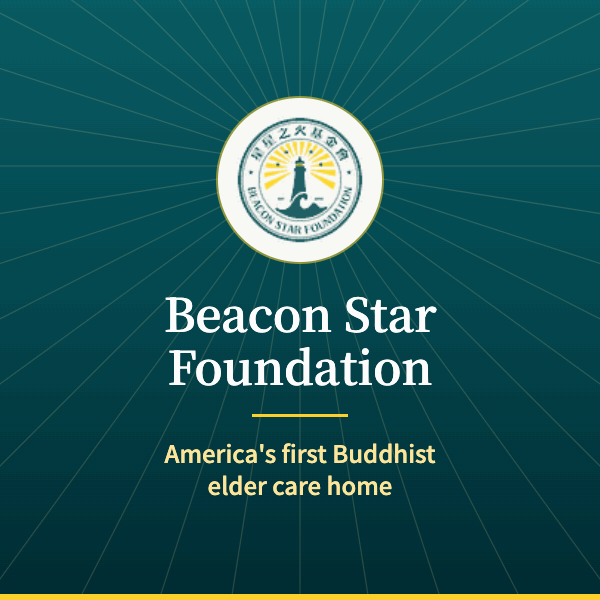
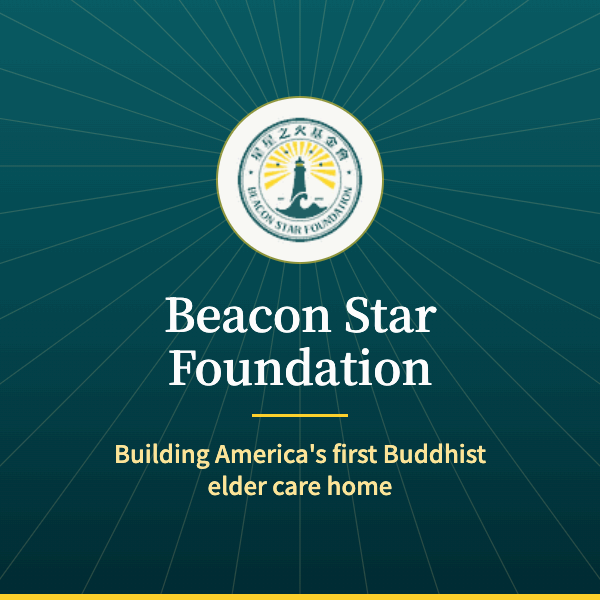
Go back to one og:image per page
iMessage does not choose between multiple og:image tags — it lays them
out side by side in one card, so the wide and square cards each arrived
cropped down the middle. One image per page, the wide one; each language
still points at its own card, which was the point of the exercise.

The English square card's line now matches the wide one.

Changed region(s): [[0.18, 0.72, 0.81, 0.78]]

diff --git a/origin-en.html b/origin-en.html
@@ -19,11 +19,6 @@
 <meta property="og:image:width" content="1200">
 <meta property="og:image:height" content="630">
 <meta property="og:image:alt" content="星星之火基金會 Beacon Star Foundation">
-<meta property="og:image" content="https://beaconstarfoundation.org/og-image-en-square.png">
-<meta property="og:image:type" content="image/png">
-<meta property="og:image:width" content="600">
-<meta property="og:image:height" content="600">
-<meta property="og:image:alt" content="星星之火基金會 Beacon Star Foundation">
 <meta name="twitter:card" content="summary_large_image">
 <style>html,body{background:#FBFAF7;color:#16262B;margin:0}html{color-scheme:light}footer [data-flinks]{display:grid;grid-template-columns:repeat(3,minmax(0,1fr));gap:34px 40px}@media (max-width:699px){footer [data-flinks]{display:grid;grid-template-columns:repeat(2,minmax(0,1fr));gap:26px 18px}}html.om-hold body{opacity:0}html.om-in body{opacity:1;transition:opacity .26s cubic-bezier(.22,.61,.24,1)}@media (prefers-reduced-motion:reduce){html.om-in body{transition:none}}body{overflow-wrap:break-word}a[href^="mailto:"]{overflow-wrap:anywhere}[data-bio-aside]{align-self:start}@media(min-width:760px){[data-bio-aside]{position:sticky;top:calc(var(--hdr, 132px) + 28px)}}@media(min-width:760px){[data-bio-grid]{grid-template-columns:5fr 7fr!important}}</style>
 <script>(function(){var h=document.documentElement;h.className+=" om-hold";var done=0,mo,cap;function go(){if(done)return;done=1;clearTimeout(cap);if(mo)mo.disconnect();h.className=h.className.replace(" om-hold","")+" om-in";}function ready(){var r=document.getElementById("dc-root");return r&&r.getBoundingClientRect().height>240;}function check(){if(ready())requestAnimationFrame(go);}cap=setTimeout(go,1500);document.addEventListener("DOMContentLoaded",function(){try{mo=new MutationObserver(check);mo.observe(document.body,{childList:true,subtree:true});}catch(e){}check();});})();</script>

diff --git a/origin-simp.html b/origin-simp.html
@@ -19,11 +19,6 @@
 <meta property="og:image:width" content="1200">
 <meta property="og:image:height" content="630">
 <meta property="og:image:alt" content="星星之火基金會 Beacon Star Foundation">
-<meta property="og:image" content="https://beaconstarfoundation.org/og-image-square.png">
-<meta property="og:image:type" content="image/png">
-<meta property="og:image:width" content="600">
-<meta property="og:image:height" content="600">
-<meta property="og:image:alt" content="星星之火基金會 Beacon Star Foundation">
 <meta name="twitter:card" content="summary_large_image">
 <style>html,body{background:#FBFAF7;color:#16262B;margin:0}html{color-scheme:light}footer [data-flinks]{display:grid;grid-template-columns:repeat(3,minmax(0,1fr));gap:34px 40px}@media (max-width:699px){footer [data-flinks]{display:grid;grid-template-columns:repeat(2,minmax(0,1fr));gap:26px 18px}}html.om-hold body{opacity:0}html.om-in body{opacity:1;transition:opacity .26s cubic-bezier(.22,.61,.24,1)}@media (prefers-reduced-motion:reduce){html.om-in body{transition:none}}body{overflow-wrap:break-word}a[href^="mailto:"]{overflow-wrap:anywhere}[data-bio-aside]{align-self:start}@media(min-width:760px){[data-bio-aside]{position:sticky;top:calc(var(--hdr, 132px) + 28px)}}@media(min-width:760px){[data-bio-grid]{grid-template-columns:5fr 7fr!important}}</style>
 <script>(function(){var h=document.documentElement;h.className+=" om-hold";var done=0,mo,cap;function go(){if(done)return;done=1;clearTimeout(cap);if(mo)mo.disconnect();h.className=h.className.replace(" om-hold","")+" om-in";}function ready(){var r=document.getElementById("dc-root");return r&&r.getBoundingClientRect().height>240;}function check(){if(ready())requestAnimationFrame(go);}cap=setTimeout(go,1500);document.addEventListener("DOMContentLoaded",function(){try{mo=new MutationObserver(check);mo.observe(document.body,{childList:true,subtree:true});}catch(e){}check();});})();</script>

diff --git a/origin-trad.html b/origin-trad.html
@@ -19,11 +19,6 @@
 <meta property="og:image:width" content="1200">
 <meta property="og:image:height" content="630">
 <meta property="og:image:alt" content="星星之火基金會 Beacon Star Foundation">
-<meta property="og:image" content="https://beaconstarfoundation.org/og-image-square.png">
-<meta property="og:image:type" content="image/png">
-<meta property="og:image:width" content="600">
-<meta property="og:image:height" content="600">
-<meta property="og:image:alt" content="星星之火基金會 Beacon Star Foundation">
 <meta name="twitter:card" content="summary_large_image">
 <style>html,body{background:#FBFAF7;color:#16262B;margin:0}html{color-scheme:light}footer [data-flinks]{display:grid;grid-template-columns:repeat(3,minmax(0,1fr));gap:34px 40px}@media (max-width:699px){footer [data-flinks]{display:grid;grid-template-columns:repeat(2,minmax(0,1fr));gap:26px 18px}}html.om-hold body{opacity:0}html.om-in body{opacity:1;transition:opacity .26s cubic-bezier(.22,.61,.24,1)}@media (prefers-reduced-motion:reduce){html.om-in body{transition:none}}body{overflow-wrap:break-word}a[href^="mailto:"]{overflow-wrap:anywhere}[data-bio-aside]{align-self:start}@media(min-width:760px){[data-bio-aside]{position:sticky;top:calc(var(--hdr, 132px) + 28px)}}@media(min-width:760px){[data-bio-grid]{grid-template-columns:5fr 7fr!important}}</style>
 <script>(function(){var h=document.documentElement;h.className+=" om-hold";var done=0,mo,cap;function go(){if(done)return;done=1;clearTimeout(cap);if(mo)mo.disconnect();h.className=h.className.replace(" om-hold","")+" om-in";}function ready(){var r=document.getElementById("dc-root");return r&&r.getBoundingClientRect().height>240;}function check(){if(ready())requestAnimationFrame(go);}cap=setTimeout(go,1500);document.addEventListener("DOMContentLoaded",function(){try{mo=new MutationObserver(check);mo.observe(document.body,{childList:true,subtree:true});}catch(e){}check();});})();</script>

diff --git a/videos-simp.html b/videos-simp.html
@@ -19,11 +19,6 @@
 <meta property="og:image:width" content="1200">
 <meta property="og:image:height" content="630">
 <meta property="og:image:alt" content="星星之火基金會 Beacon Star Foundation">
-<meta property="og:image" content="https://beaconstarfoundation.org/og-image-square.png">
-<meta property="og:image:type" content="image/png">
-<meta property="og:image:width" content="600">
-<meta property="og:image:height" content="600">
-<meta property="og:image:alt" content="星星之火基金會 Beacon Star Foundation">
 <meta name="twitter:card" content="summary_large_image">
 <style>html,body{background:#FBFAF7;color:#16262B;margin:0}html{color-scheme:light}footer [data-flinks]{display:grid;grid-template-columns:repeat(3,minmax(0,1fr));gap:34px 40px}@media (max-width:699px){footer [data-flinks]{display:grid;grid-template-columns:repeat(2,minmax(0,1fr));gap:26px 18px}}html.om-hold body{opacity:0}html.om-in body{opacity:1;transition:opacity .26s cubic-bezier(.22,.61,.24,1)}@media (prefers-reduced-motion:reduce){html.om-in body{transition:none}}body{overflow-wrap:break-word}a[href^="mailto:"]{overflow-wrap:anywhere}.cta-pair{display:block}@media(max-width:700px){.cta-clause{display:block}}[data-vgrid]{grid-template-columns:repeat(2,minmax(0,1fr))}@media(max-width:620px){[data-vgrid]{grid-template-columns:1fr}}</style>
 <script>(function(){var h=document.documentElement;h.className+=" om-hold";var done=0,mo,cap;function go(){if(done)return;done=1;clearTimeout(cap);if(mo)mo.disconnect();h.className=h.className.replace(" om-hold","")+" om-in";}function ready(){var r=document.getElementById("dc-root");return r&&r.getBoundingClientRect().height>240;}function check(){if(ready())requestAnimationFrame(go);}cap=setTimeout(go,1500);document.addEventListener("DOMContentLoaded",function(){try{mo=new MutationObserver(check);mo.observe(document.body,{childList:true,subtree:true});}catch(e){}check();});})();</script>

diff --git a/videos-trad.html b/videos-trad.html
@@ -19,11 +19,6 @@
 <meta property="og:image:width" content="1200">
 <meta property="og:image:height" content="630">
 <meta property="og:image:alt" content="星星之火基金會 Beacon Star Foundation">
-<meta property="og:image" content="https://beaconstarfoundation.org/og-image-square.png">
-<meta property="og:image:type" content="image/png">
-<meta property="og:image:width" content="600">
-<meta property="og:image:height" content="600">
-<meta property="og:image:alt" content="星星之火基金會 Beacon Star Foundation">
 <meta name="twitter:card" content="summary_large_image">
 <style>html,body{background:#FBFAF7;color:#16262B;margin:0}html{color-scheme:light}footer [data-flinks]{display:grid;grid-template-columns:repeat(3,minmax(0,1fr));gap:34px 40px}@media (max-width:699px){footer [data-flinks]{display:grid;grid-template-columns:repeat(2,minmax(0,1fr));gap:26px 18px}}html.om-hold body{opacity:0}html.om-in body{opacity:1;transition:opacity .26s cubic-bezier(.22,.61,.24,1)}@media (prefers-reduced-motion:reduce){html.om-in body{transition:none}}body{overflow-wrap:break-word}a[href^="mailto:"]{overflow-wrap:anywhere}.cta-pair{display:block}@media(max-width:700px){.cta-clause{display:block}}[data-vgrid]{grid-template-columns:repeat(2,minmax(0,1fr))}@media(max-width:620px){[data-vgrid]{grid-template-columns:1fr}}</style>
 <script>(function(){var h=document.documentElement;h.className+=" om-hold";var done=0,mo,cap;function go(){if(done)return;done=1;clearTimeout(cap);if(mo)mo.disconnect();h.className=h.className.replace(" om-hold","")+" om-in";}function ready(){var r=document.getElementById("dc-root");return r&&r.getBoundingClientRect().height>240;}function check(){if(ready())requestAnimationFrame(go);}cap=setTimeout(go,1500);document.addEventListener("DOMContentLoaded",function(){try{mo=new MutationObserver(check);mo.observe(document.body,{childList:true,subtree:true});}catch(e){}check();});})();</script>

diff --git a/videos-en.html b/videos-en.html
@@ -19,11 +19,6 @@
 <meta property="og:image:width" content="1200">
 <meta property="og:image:height" content="630">
 <meta property="og:image:alt" content="星星之火基金會 Beacon Star Foundation">
-<meta property="og:image" content="https://beaconstarfoundation.org/og-image-en-square.png">
-<meta property="og:image:type" content="image/png">
-<meta property="og:image:width" content="600">
-<meta property="og:image:height" content="600">
-<meta property="og:image:alt" content="星星之火基金會 Beacon Star Foundation">
 <meta name="twitter:card" content="summary_large_image">
 <style>html,body{background:#FBFAF7;color:#16262B;margin:0}html{color-scheme:light}footer [data-flinks]{display:grid;grid-template-columns:repeat(3,minmax(0,1fr));gap:34px 40px}@media (max-width:699px){footer [data-flinks]{display:grid;grid-template-columns:repeat(2,minmax(0,1fr));gap:26px 18px}[data-vrow]{grid-template-columns:minmax(0,1fr)!important;gap:4px}}html.om-hold body{opacity:0}html.om-in body{opacity:1;transition:opacity .26s cubic-bezier(.22,.61,.24,1)}@media (prefers-reduced-motion:reduce){html.om-in body{transition:none}}body{overflow-wrap:break-word}a[href^="mailto:"]{overflow-wrap:anywhere}[data-vgrid]{grid-template-columns:repeat(2,minmax(0,1fr))}@media(max-width:620px){[data-vgrid]{grid-template-columns:1fr}}</style>
 <script>(function(){var h=document.documentElement;h.className+=" om-hold";var done=0,mo,cap;function go(){if(done)return;done=1;clearTimeout(cap);if(mo)mo.disconnect();h.className=h.className.replace(" om-hold","")+" om-in";}function ready(){var r=document.getElementById("dc-root");return r&&r.getBoundingClientRect().height>240;}function check(){if(ready())requestAnimationFrame(go);}cap=setTimeout(go,1500);document.addEventListener("DOMContentLoaded",function(){try{mo=new MutationObserver(check);mo.observe(document.body,{childList:true,subtree:true});}catch(e){}check();});})();</script>

diff --git a/home-en.html b/home-en.html
@@ -19,11 +19,6 @@
 <meta property="og:image:width" content="1200">
 <meta property="og:image:height" content="630">
 <meta property="og:image:alt" content="星星之火基金會 Beacon Star Foundation">
-<meta property="og:image" content="https://beaconstarfoundation.org/og-image-en-square.png">
-<meta property="og:image:type" content="image/png">
-<meta property="og:image:width" content="600">
-<meta property="og:image:height" content="600">
-<meta property="og:image:alt" content="星星之火基金會 Beacon Star Foundation">
 <meta name="twitter:card" content="summary_large_image">
 <style>html,body{background:#FBFAF7;color:#16262B;margin:0}html{color-scheme:light}footer [data-flinks]{display:grid;grid-template-columns:repeat(3,minmax(0,1fr));gap:34px 40px}@media (max-width:699px){footer [data-flinks]{display:grid;grid-template-columns:repeat(2,minmax(0,1fr));gap:26px 18px}}html.om-hold body{opacity:0}html.om-in body{opacity:1;transition:opacity .26s cubic-bezier(.22,.61,.24,1)}@media (prefers-reduced-motion:reduce){html.om-in body{transition:none}}body{overflow-wrap:break-word}a[href^="mailto:"]{overflow-wrap:anywhere}@media(max-width:699px){#top{padding-top:32px!important}[data-hero-seal]{width:128px!important;height:128px!important}}</style>
 <script>(function(){var h=document.documentElement;h.className+=" om-hold";var done=0,mo,cap;function go(){if(done)return;done=1;clearTimeout(cap);if(mo)mo.disconnect();h.className=h.className.replace(" om-hold","")+" om-in";}function ready(){var r=document.getElementById("dc-root");return r&&r.getBoundingClientRect().height>240;}function check(){if(ready())requestAnimationFrame(go);}cap=setTimeout(go,1500);document.addEventListener("DOMContentLoaded",function(){try{mo=new MutationObserver(check);mo.observe(document.body,{childList:true,subtree:true});}catch(e){}check();});})();</script>

diff --git a/home-simp.html b/home-simp.html
@@ -19,11 +19,6 @@
 <meta property="og:image:width" content="1200">
 <meta property="og:image:height" content="630">
 <meta property="og:image:alt" content="星星之火基金會 Beacon Star Foundation">
-<meta property="og:image" content="https://beaconstarfoundation.org/og-image-square.png">
-<meta property="og:image:type" content="image/png">
-<meta property="og:image:width" content="600">
-<meta property="og:image:height" content="600">
-<meta property="og:image:alt" content="星星之火基金會 Beacon Star Foundation">
 <meta name="twitter:card" content="summary_large_image">
 <style>html,body{background:#FBFAF7;color:#16262B;margin:0}html{color-scheme:light}footer [data-flinks]{display:grid;grid-template-columns:repeat(3,minmax(0,1fr));gap:34px 40px}@media (max-width:699px){footer [data-flinks]{display:grid;grid-template-columns:repeat(2,minmax(0,1fr));gap:26px 18px}}html.om-hold body{opacity:0}html.om-in body{opacity:1;transition:opacity .26s cubic-bezier(.22,.61,.24,1)}@media (prefers-reduced-motion:reduce){html.om-in body{transition:none}}body{overflow-wrap:break-word}a[href^="mailto:"]{overflow-wrap:anywhere}@media(max-width:699px){#top{padding-top:32px!important}[data-hero-seal]{width:128px!important;height:128px!important}}</style>
 <script>(function(){var h=document.documentElement;h.className+=" om-hold";var done=0,mo,cap;function go(){if(done)return;done=1;clearTimeout(cap);if(mo)mo.disconnect();h.className=h.className.replace(" om-hold","")+" om-in";}function ready(){var r=document.getElementById("dc-root");return r&&r.getBoundingClientRect().height>240;}function check(){if(ready())requestAnimationFrame(go);}cap=setTimeout(go,1500);document.addEventListener("DOMContentLoaded",function(){try{mo=new MutationObserver(check);mo.observe(document.body,{childList:true,subtree:true});}catch(e){}check();});})();</script>

diff --git a/home-trad.html b/home-trad.html
@@ -20,11 +20,6 @@
 <meta property="og:image:width" content="1200">
 <meta property="og:image:height" content="630">
 <meta property="og:image:alt" content="星星之火基金會 Beacon Star Foundation">
-<meta property="og:image" content="https://beaconstarfoundation.org/og-image-square.png">
-<meta property="og:image:type" content="image/png">
-<meta property="og:image:width" content="600">
-<meta property="og:image:height" content="600">
-<meta property="og:image:alt" content="星星之火基金會 Beacon Star Foundation">
 <meta name="twitter:card" content="summary_large_image">
 <style>html,body{background:#FBFAF7;color:#16262B;margin:0}html{color-scheme:light}footer [data-flinks]{display:grid;grid-template-columns:repeat(3,minmax(0,1fr));gap:34px 40px}@media (max-width:699px){footer [data-flinks]{display:grid;grid-template-columns:repeat(2,minmax(0,1fr));gap:26px 18px}}html.om-hold body{opacity:0}html.om-in body{opacity:1;transition:opacity .26s cubic-bezier(.22,.61,.24,1)}@media (prefers-reduced-motion:reduce){html.om-in body{transition:none}}body{overflow-wrap:break-word}a[href^="mailto:"]{overflow-wrap:anywhere}@media(max-width:699px){#top{padding-top:32px!important}[data-hero-seal]{width:128px!important;height:128px!important}}</style>
 <script>(function(){var h=document.documentElement;h.className+=" om-hold";var done=0,mo,cap;function go(){if(done)return;done=1;clearTimeout(cap);if(mo)mo.disconnect();h.className=h.className.replace(" om-hold","")+" om-in";}function ready(){var r=document.getElementById("dc-root");return r&&r.getBoundingClientRect().height>240;}function check(){if(ready())requestAnimationFrame(go);}cap=setTimeout(go,1500);document.addEventListener("DOMContentLoaded",function(){try{mo=new MutationObserver(check);mo.observe(document.body,{childList:true,subtree:true});}catch(e){}check();});})();</script>

diff --git a/index.html b/index.html
@@ -20,11 +20,6 @@
 <meta property="og:image:width" content="1200">
 <meta property="og:image:height" content="630">
 <meta property="og:image:alt" content="星星之火基金會 Beacon Star Foundation">
-<meta property="og:image" content="https://beaconstarfoundation.org/og-image-square.png">
-<meta property="og:image:type" content="image/png">
-<meta property="og:image:width" content="600">
-<meta property="og:image:height" content="600">
-<meta property="og:image:alt" content="星星之火基金會 Beacon Star Foundation">
 <meta name="twitter:card" content="summary_large_image">
 <style>html,body{background:#FBFAF7;color:#16262B;margin:0}html{color-scheme:light}footer [data-flinks]{display:grid;grid-template-columns:repeat(3,minmax(0,1fr));gap:34px 40px}@media (max-width:699px){footer [data-flinks]{display:grid;grid-template-columns:repeat(2,minmax(0,1fr));gap:26px 18px}}html.om-hold body{opacity:0}html.om-in body{opacity:1;transition:opacity .26s cubic-bezier(.22,.61,.24,1)}@media (prefers-reduced-motion:reduce){html.om-in body{transition:none}}body{overflow-wrap:break-word}a[href^="mailto:"]{overflow-wrap:anywhere}@media(max-width:699px){#top{padding-top:32px!important}[data-hero-seal]{width:128px!important;height:128px!important}}</style>
 <script>(function(){var h=document.documentElement;h.className+=" om-hold";var done=0,mo,cap;function go(){if(done)return;done=1;clearTimeout(cap);if(mo)mo.disconnect();h.className=h.className.replace(" om-hold","")+" om-in";}function ready(){var r=document.getElementById("dc-root");return r&&r.getBoundingClientRect().height>240;}function check(){if(ready())requestAnimationFrame(go);}cap=setTimeout(go,1500);document.addEventListener("DOMContentLoaded",function(){try{mo=new MutationObserver(check);mo.observe(document.body,{childList:true,subtree:true});}catch(e){}check();});})();</script>

diff --git a/senior-simp.html b/senior-simp.html
@@ -19,11 +19,6 @@
 <meta property="og:image:width" content="1200">
 <meta property="og:image:height" content="630">
 <meta property="og:image:alt" content="星星之火基金會 Beacon Star Foundation">
-<meta property="og:image" content="https://beaconstarfoundation.org/og-image-square.png">
-<meta property="og:image:type" content="image/png">
-<meta property="og:image:width" content="600">
-<meta property="og:image:height" content="600">
-<meta property="og:image:alt" content="星星之火基金會 Beacon Star Foundation">
 <meta name="twitter:card" content="summary_large_image">
 <style>html,body{background:#FBFAF7;color:#16262B;margin:0}html{color-scheme:light}footer [data-flinks]{display:grid;grid-template-columns:repeat(3,minmax(0,1fr));gap:34px 40px}@media (max-width:699px){footer [data-flinks]{display:grid;grid-template-columns:repeat(2,minmax(0,1fr));gap:26px 18px}}html.om-hold body{opacity:0}html.om-in body{opacity:1;transition:opacity .26s cubic-bezier(.22,.61,.24,1)}@media (prefers-reduced-motion:reduce){html.om-in body{transition:none}}body{overflow-wrap:break-word}a[href^="mailto:"]{overflow-wrap:anywhere}.cta-pair{display:block}@media(max-width:700px){.cta-clause{display:block}}</style>
 <script>(function(){var h=document.documentElement;h.className+=" om-hold";var done=0,mo,cap;function go(){if(done)return;done=1;clearTimeout(cap);if(mo)mo.disconnect();h.className=h.className.replace(" om-hold","")+" om-in";}function ready(){var r=document.getElementById("dc-root");return r&&r.getBoundingClientRect().height>240;}function check(){if(ready())requestAnimationFrame(go);}cap=setTimeout(go,1500);document.addEventListener("DOMContentLoaded",function(){try{mo=new MutationObserver(check);mo.observe(document.body,{childList:true,subtree:true});}catch(e){}check();});})();</script>

diff --git a/senior-trad.html b/senior-trad.html
@@ -19,11 +19,6 @@
 <meta property="og:image:width" content="1200">
 <meta property="og:image:height" content="630">
 <meta property="og:image:alt" content="星星之火基金會 Beacon Star Foundation">
-<meta property="og:image" content="https://beaconstarfoundation.org/og-image-square.png">
-<meta property="og:image:type" content="image/png">
-<meta property="og:image:width" content="600">
-<meta property="og:image:height" content="600">
-<meta property="og:image:alt" content="星星之火基金會 Beacon Star Foundation">
 <meta name="twitter:card" content="summary_large_image">
 <style>html,body{background:#FBFAF7;color:#16262B;margin:0}html{color-scheme:light}footer [data-flinks]{display:grid;grid-template-columns:repeat(3,minmax(0,1fr));gap:34px 40px}@media (max-width:699px){footer [data-flinks]{display:grid;grid-template-columns:repeat(2,minmax(0,1fr));gap:26px 18px}}html.om-hold body{opacity:0}html.om-in body{opacity:1;transition:opacity .26s cubic-bezier(.22,.61,.24,1)}@media (prefers-reduced-motion:reduce){html.om-in body{transition:none}}body{overflow-wrap:break-word}a[href^="mailto:"]{overflow-wrap:anywhere}.cta-pair{display:block}@media(max-width:700px){.cta-clause{display:block}}</style>
 <script>(function(){var h=document.documentElement;h.className+=" om-hold";var done=0,mo,cap;function go(){if(done)return;done=1;clearTimeout(cap);if(mo)mo.disconnect();h.className=h.className.replace(" om-hold","")+" om-in";}function ready(){var r=document.getElementById("dc-root");return r&&r.getBoundingClientRect().height>240;}function check(){if(ready())requestAnimationFrame(go);}cap=setTimeout(go,1500);document.addEventListener("DOMContentLoaded",function(){try{mo=new MutationObserver(check);mo.observe(document.body,{childList:true,subtree:true});}catch(e){}check();});})();</script>
